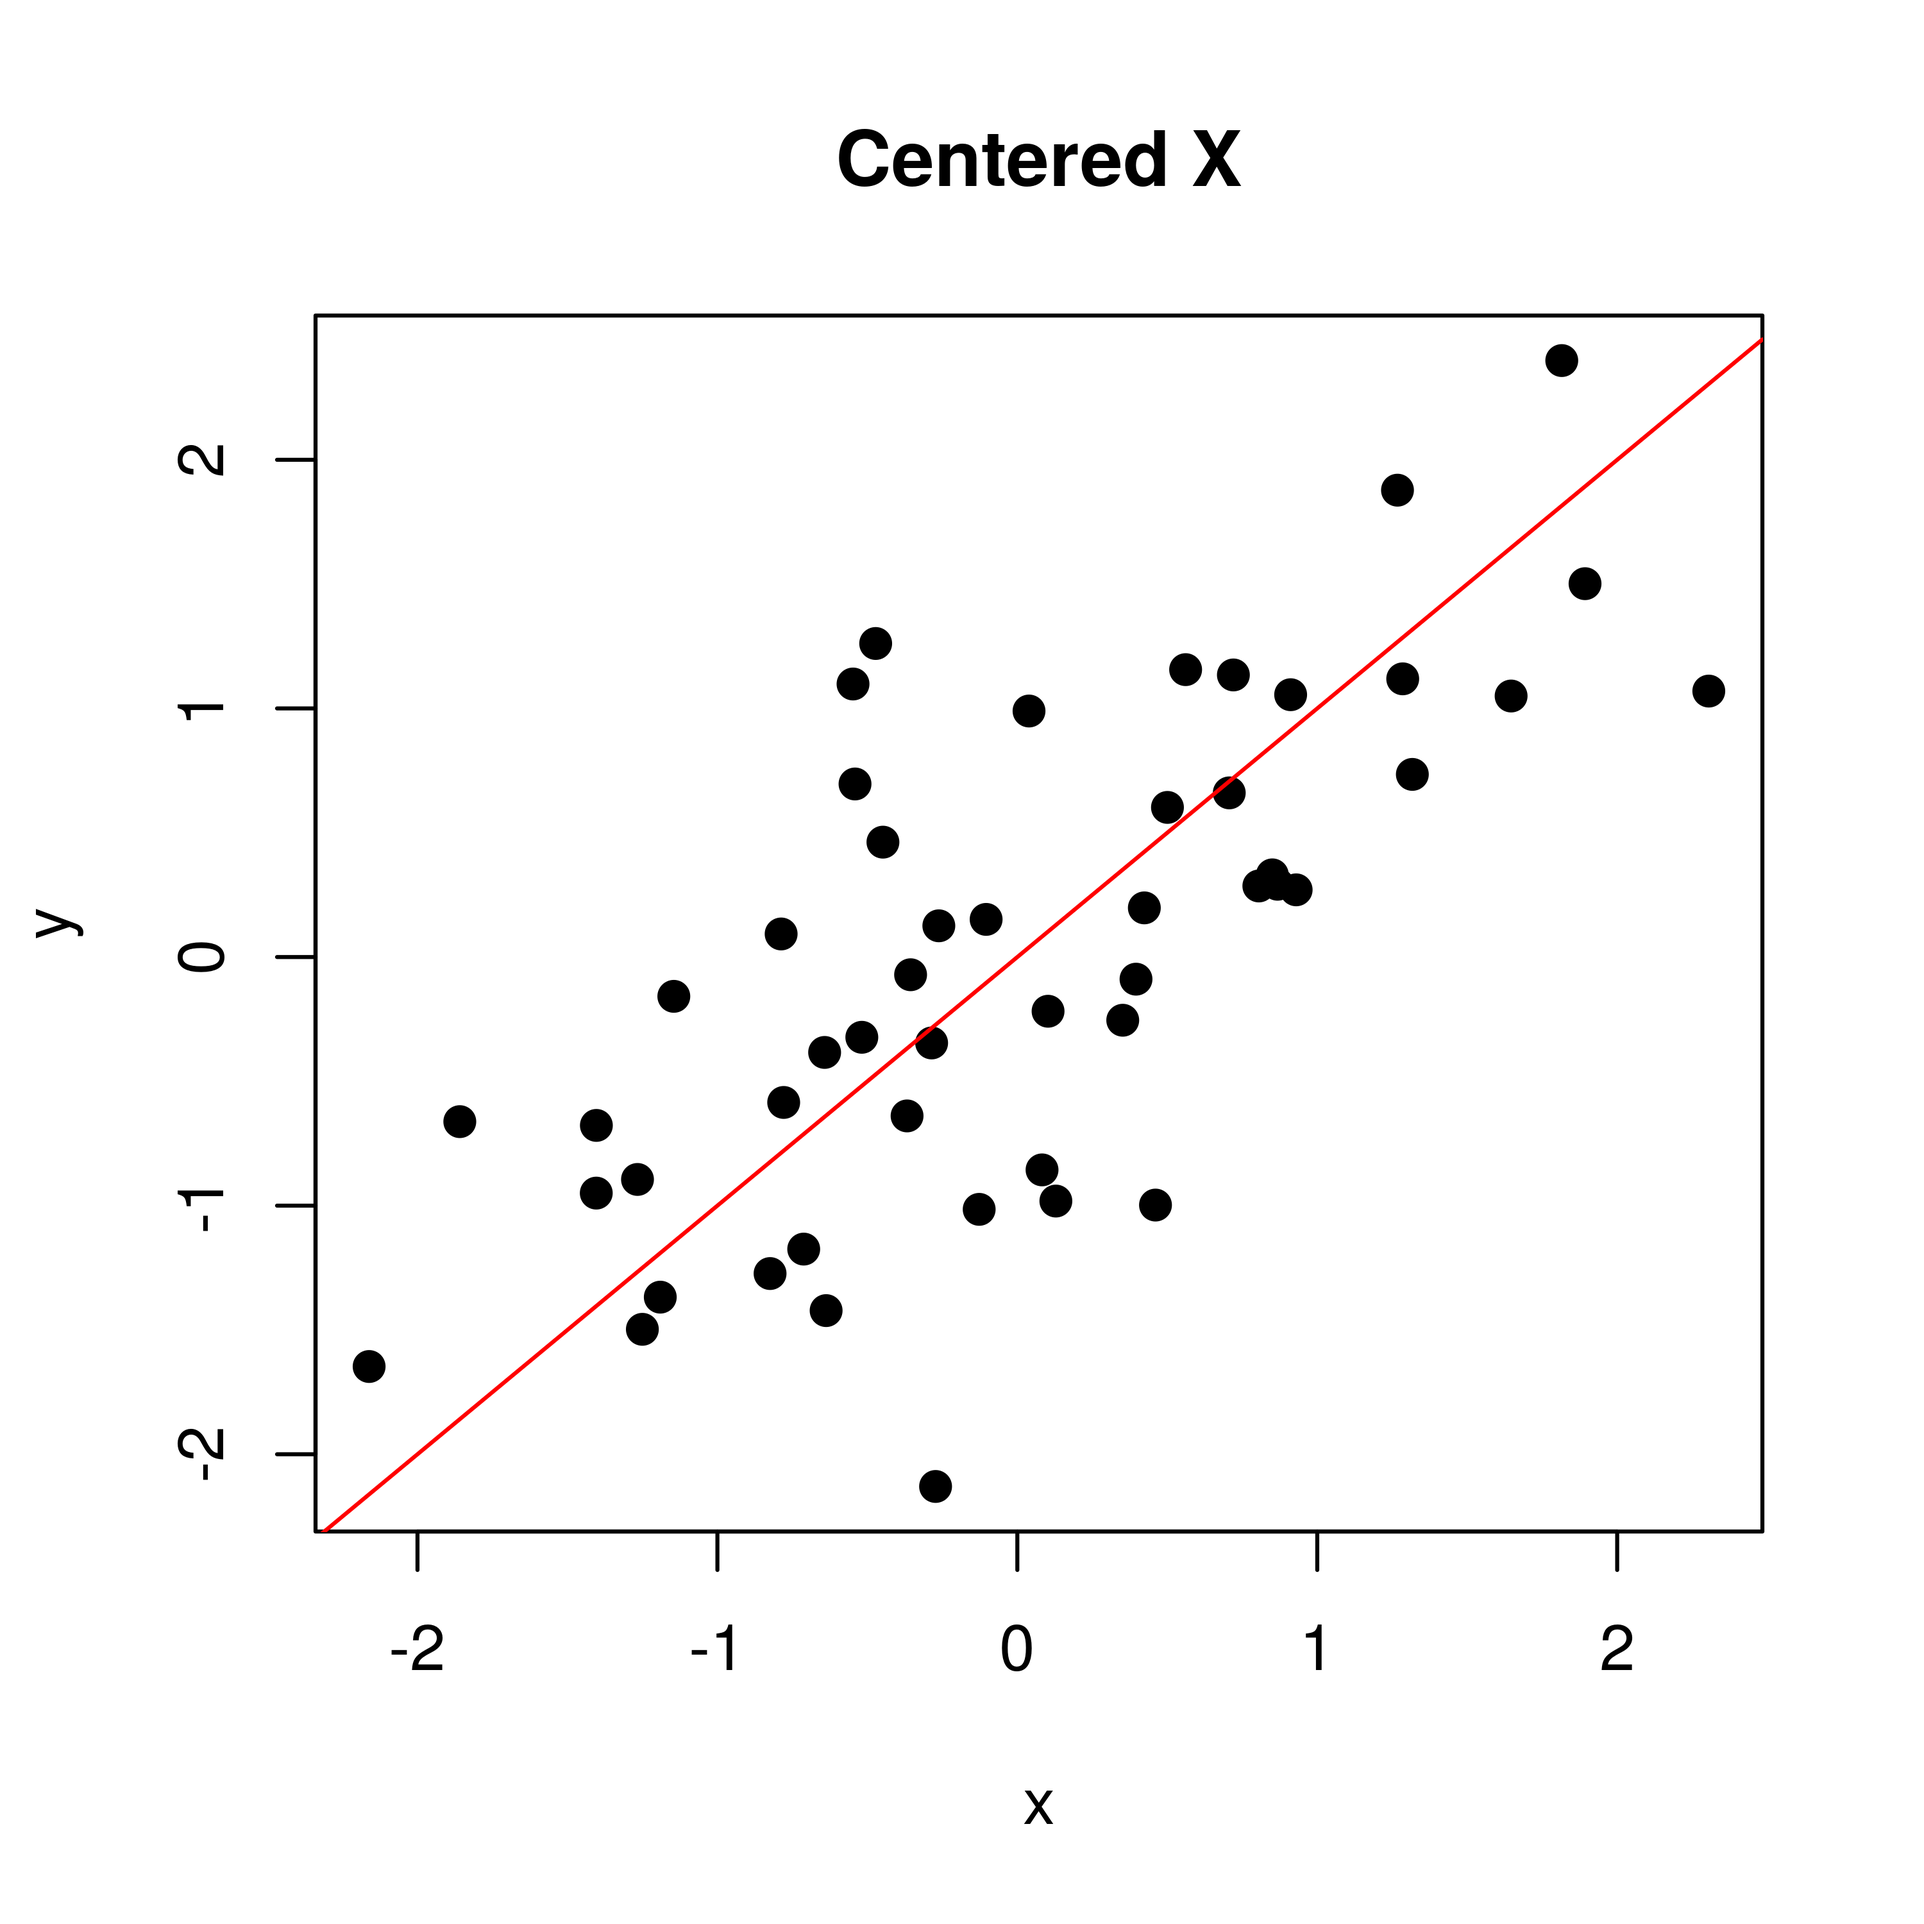
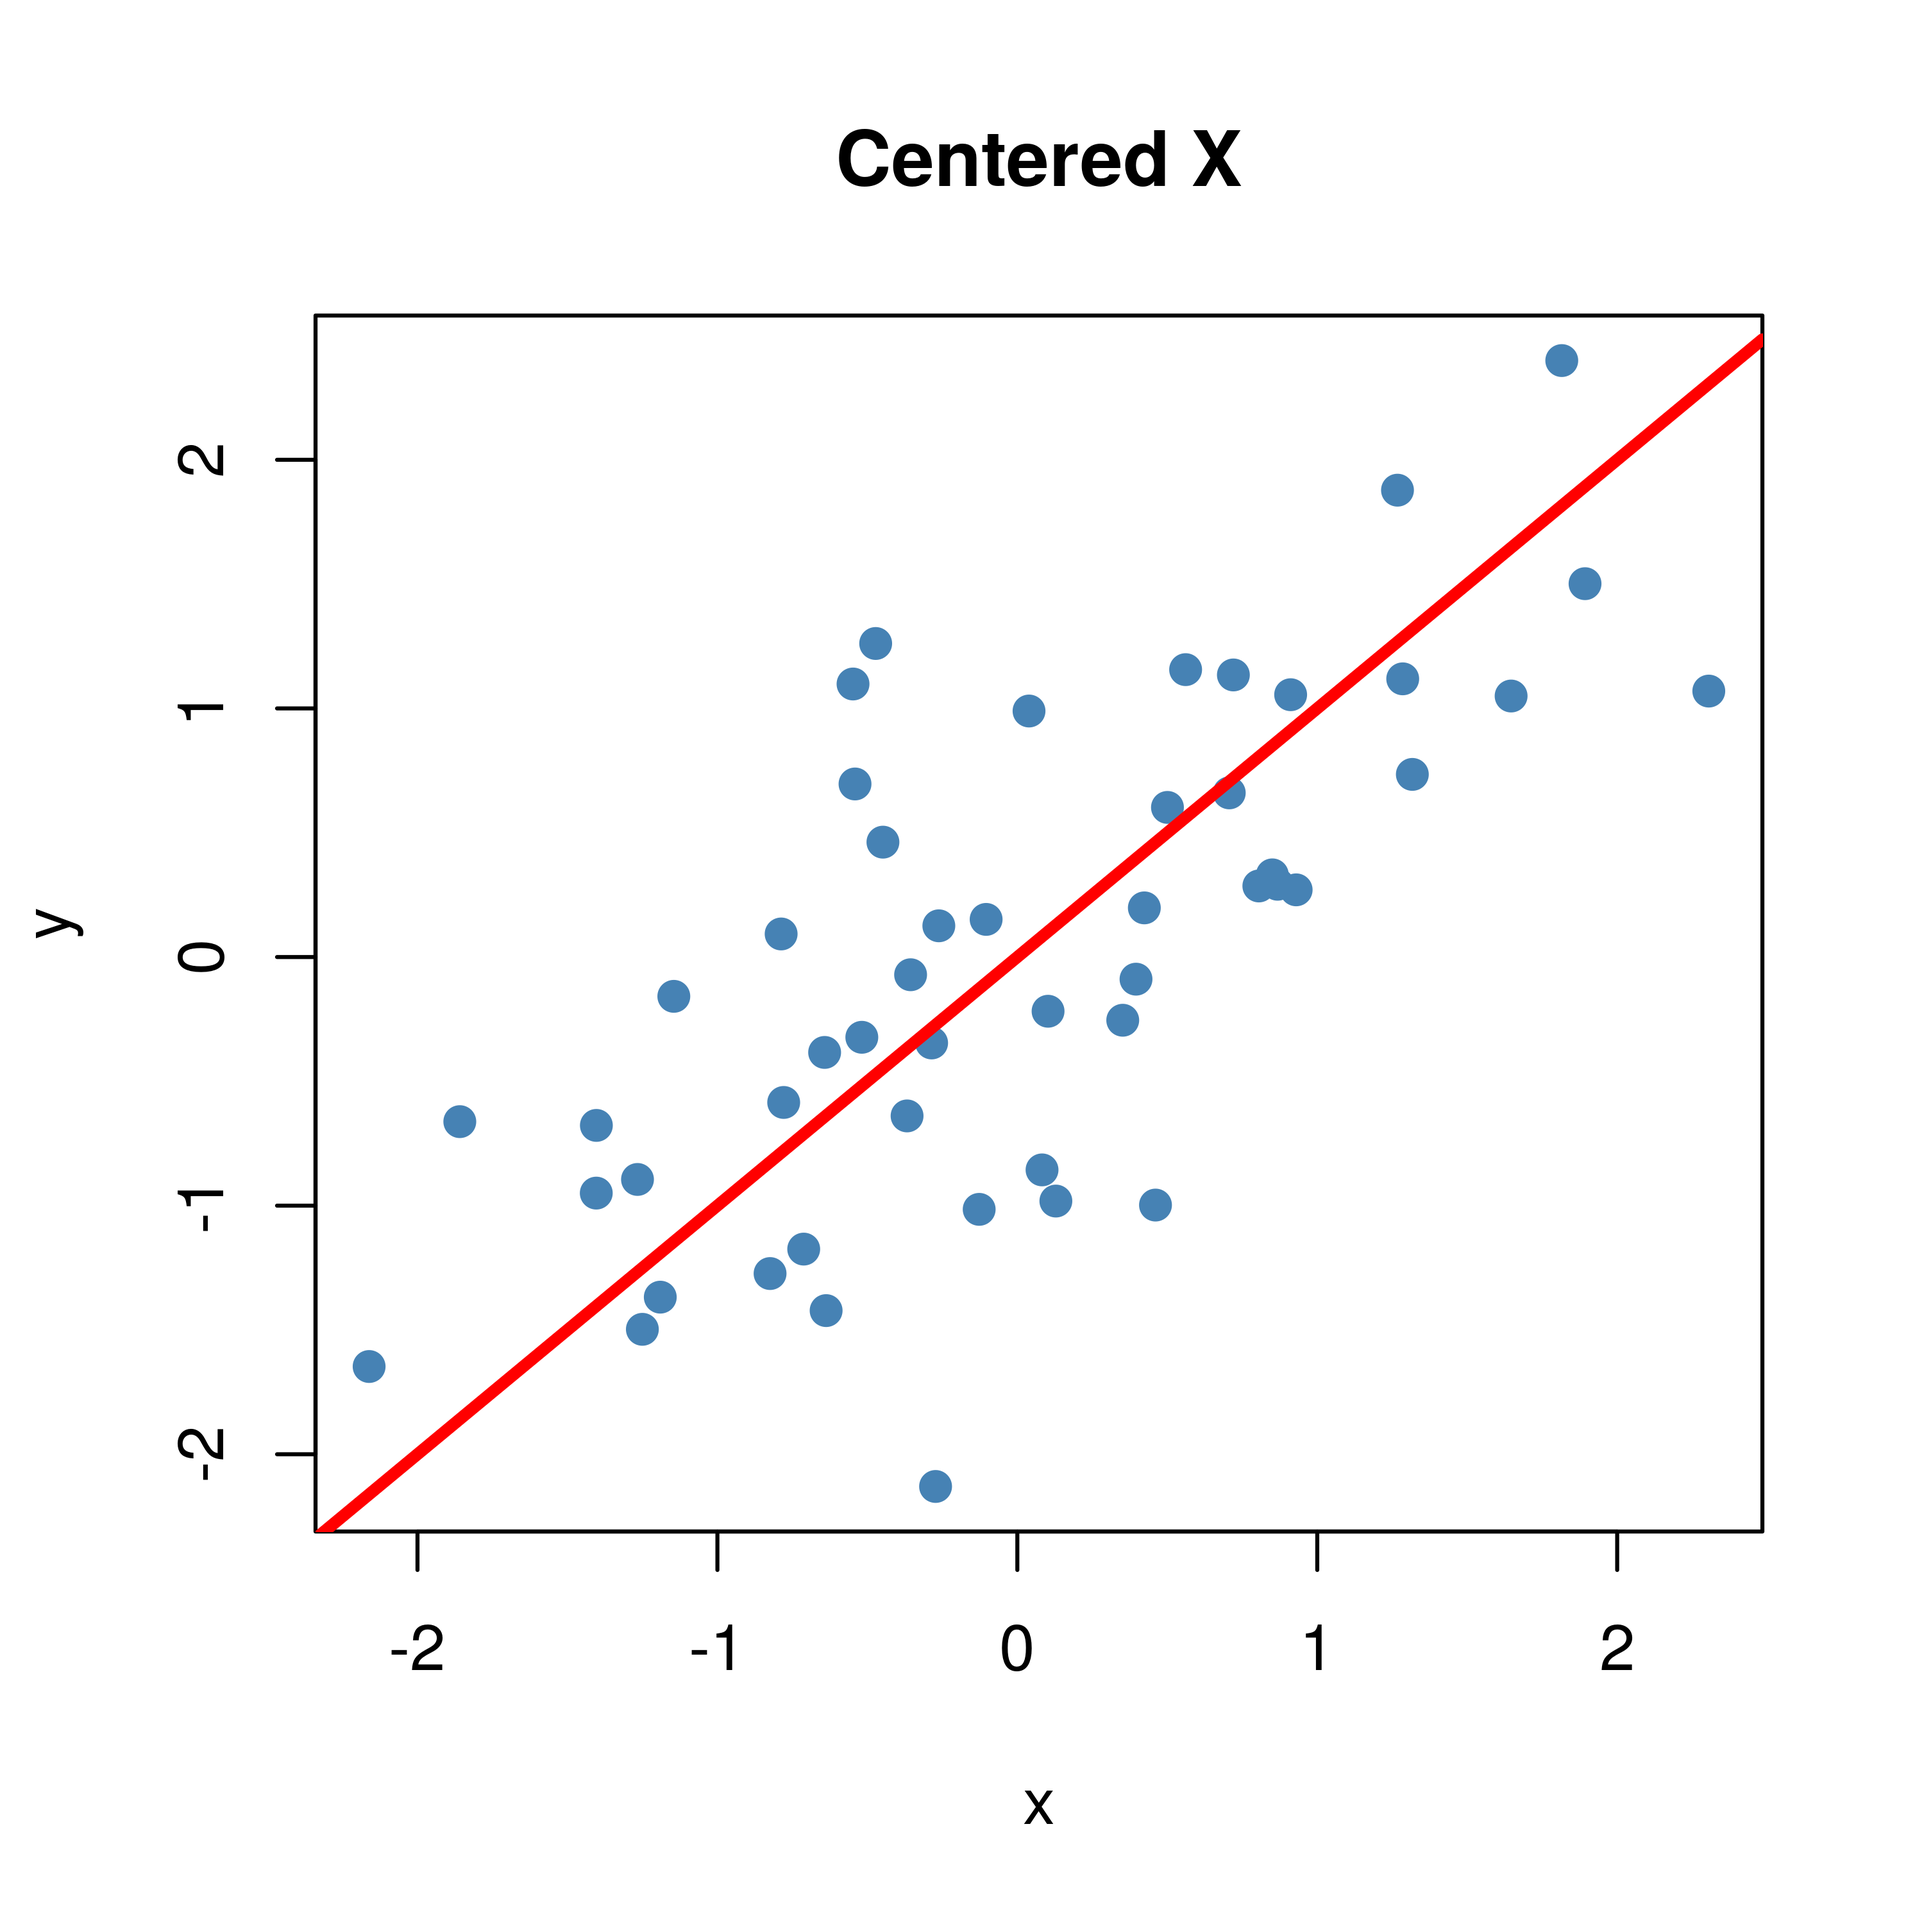
updating pca

diff --git a/projects/pca/preprocess_before_sub.py b/projects/pca/preprocess_before_sub.py
@@ -3,7 +3,7 @@ print('\nWriting header into index.md ...')
 with open('index.md', "r+") as f:
 	old = f.read()
 	f.seek(0)
-	f.write("---\nlayout: projects\n\n---\n\n" + old)
+	f.write("---\nlayout: projects\n\n---\n\n <link rel='stylesheet' type='text/css' href='/projects/pca/pca.css'>"  + old)
 print('Finished writing header\n')
 
 
@@ -18,6 +18,10 @@ with fileinput.FileInput('index.md', inplace=True) as file:
 with fileinput.FileInput('index.md', inplace=True) as file:
     for line in file:
         print(line.replace('\\]', '$$'), end='')
+
+with fileinput.FileInput('index.md', inplace=True) as file:
+    for line in file:
+        print(line.replace('arsenal\\!', 'arsenal!'), end='')
         
         
 # with fileinput.FileInput('index.md', inplace=True) as file:

diff --git a/projects/pca/index.md b/projects/pca/index.md
@@ -3,12 +3,9 @@ layout: projects
 
 ---
 
-
+ <link rel='stylesheet' type='text/css' href='/projects/pca/pca.css'>
 
 # **Introduction to Principal Component Analysis**
-
-<link rel="stylesheet" type="text/css" href="/projects/pca/pca.css">
-
 
 <p style="text-align:center;">
 
@@ -116,7 +113,7 @@ th <- theme_linedraw() # setting the theme for the plots
 tiff('./images/plot1.tiff', units="in", width=5, height=3, res=300)
 
 ggplot(X, aes(x= x, y = y)) +
-  geom_point(size = 1.5) +
+  geom_point(size = 1.5, color = 'steelblue') +
   labs(title = "Our Example") + 
   th + theme(aspect.ratio = 0.8) 
 
@@ -250,13 +247,13 @@ subspace spanned by the first two eigenvectors.
 library(gridExtra)
 Z_df <- data.frame(x = Z[,1], y = Z[,2])
 g1 <- ggplot(Z_df , aes(x= x, y = y)) +
-  geom_point(size = 1.5) +
+  geom_point(size = 1.5, color = 'steelblue') +
   labs(title = "Principal Components") + ylim(-2,2) + labs(x = 'PC1', y = 'PC2') +
   th + theme(aspect.ratio = 0.8) 
 
 X_cent_df <- data.frame(X_cent)
 g2 <- ggplot(X_cent_df, aes(x= x, y = y)) +
-  geom_point(size = 1.5) +
+  geom_point(size = 1.5, color = 'steelblue') +
   labs(title = "Centered X") + 
   th + theme(aspect.ratio = 0.8) 
 
@@ -294,9 +291,9 @@ let’s plot the subspace that is spanned by the first eigenvector
 ``` r
 tiff('./images/plot3.tiff', units="in", width=5, height=5, res=600)
 
-plot(X_cent_df, pty = 's', pch = 19)
+plot(X_cent_df, pty = 's', pch = 19, col = '#4682b4')
 title("Centered X")
-abline(a = 0, b =  P[2,1] / P[1,1], col = 'red')
+abline(a = 0, b =  P[2,1] / P[1,1], col = 'red', lwd = 3)
 
 garb <- dev.off()
 ```
@@ -334,23 +331,29 @@ tiff('./images/plot4.tiff', units="in", width=10, height=5, res=600)
 
 par(mfrow=c(1,2)) # display 2 plots, one row two columns
 
-plot(X_cent_df, pty = 's', pch = 19)
-title("Centered X")
-abline(lm(y~x, X_cent_df), col = 'red')
+plot(X_cent_df, pty = 's', pch = 19, col = '#4682b4')
+title("Centered X (OLS)")
+abline(lm(y~x, X_cent_df), col = 'red', lwd = 3)
 ss <- ols.segment.coord(X_cent_df$x, X_cent_df$y, lm(y~x, X_cent_df))
-do.call(segments, ss)
+do.call(segments, c(ss, list(col = 'red', lwd = 1, lty = 2)))
 
-plot(X_cent_df, pty = 's', pch = 19)
-title("Centered X")
-abline(a = 0, b =  P[2,1] / P[1,1], col = 'red')
+plot(X_cent_df, pty = 's', pch = 19, col = '#4682b4')
+title("Centered X (PC)")
+abline(a = 0, b =  P[2,1] / P[1,1], col = 'red', lwd = 3)
 ss <- perp.segment.coord(X_cent_df$x, X_cent_df$y)
-do.call(segments, ss)
-
+do.call(segments, c(ss, list(col = 'red', lwd = 1, lty = 2)))
 
 garb <- dev.off()
 ```
 
 ![](./images/plot4.png)
+
+<p>
+
+As you can see, OLS minimizes errors from \(\hat{y} - y\) while PCA
+seeks to minimize the orthogonal variance.
+
+</p>
 
 ## Selecting Number of Eigenvectors
 
